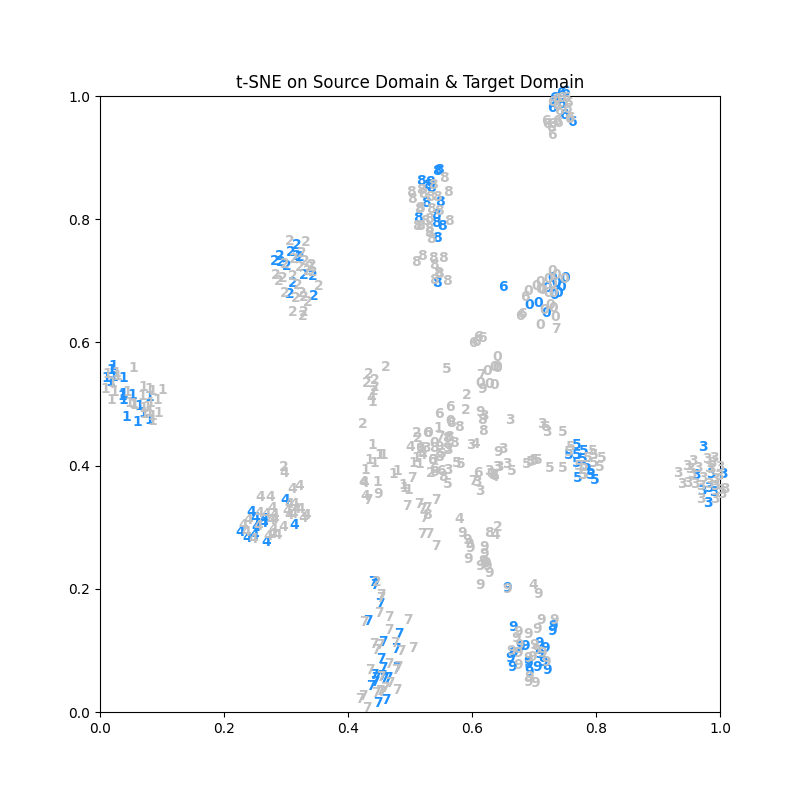
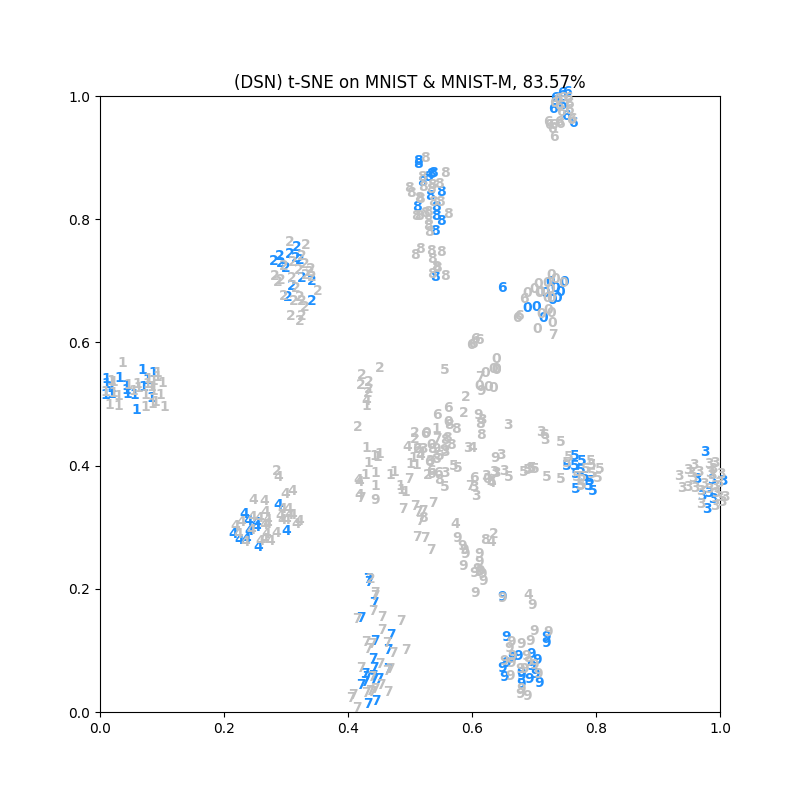
update DSN t-sne figure

diff --git a/Domain Separation Networks/utils.py b/Domain Separation Networks/utils.py
@@ -1,3 +1,4 @@
+import wandb
 import torch
 import torch.nn as nn
 from tqdm import tqdm
@@ -89,6 +90,7 @@ def train(model, dataLoader_0, dataLoader_1, optimizer, domain_scheduler, epoch,
     domain_classifier.train()
 
     weight = domain_scheduler(epoch)
+    wandb.log({"weight": weight})
     print("epoch: {}, weight: {}".format(epoch+1, weight))
 
     num_batches = min(len(dataLoader_0), len(dataLoader_1))
@@ -171,7 +173,7 @@ def evaluate(model, dataLoader, device, args):
     return total_correct / len(dataLoader.dataset)
 
 
-def visualize(model, testLoader_0, testLoader_1, device, args):
+def visualize(model, testLoader_0, testLoader_1, device, best_acc, args):
     source_encoder = model["Source_encoder"].eval()
     target_encoder = model["Target_encoder"].eval()
     shared_encoder = model["Shared_encoder"].eval()
@@ -211,7 +213,7 @@ def visualize(model, testLoader_0, testLoader_1, device, args):
     x_min, x_max = embedded.min(0), embedded.max(0)
     X_norm = (embedded - x_min) / (x_max - x_min)
     plt.figure(figsize=(8, 8))
-    plt.title("t-SNE on Source Domain & Target Domain")
+    plt.title("(DSN) t-SNE on MNIST & MNIST-M, {:.2f}%".format(best_acc*100))
     for i in range(X_norm.shape[0]):
         if i < (args.batch_size/2):
             plt.text(X_norm[i, 0], X_norm[i, 1], str(y[i].item()), color="dodgerblue", fontdict={'weight': 'bold', 'size': 10})

diff --git a/Domain Separation Networks/evaluate.py b/Domain Separation Networks/evaluate.py
@@ -43,5 +43,6 @@ model = {
     "Shared_encoder": ckpt["model"]["Shared_encoder"].to(device),
     "Shared_decoder": ckpt["model"]["Shared_decoder"].to(device)
 }
+best_acc = ckpt["acc"]
 
-visualize(model, testLoader_0, testLoader_1, device, args)
+visualize(model, testLoader_0, testLoader_1, device, best_acc, args)
